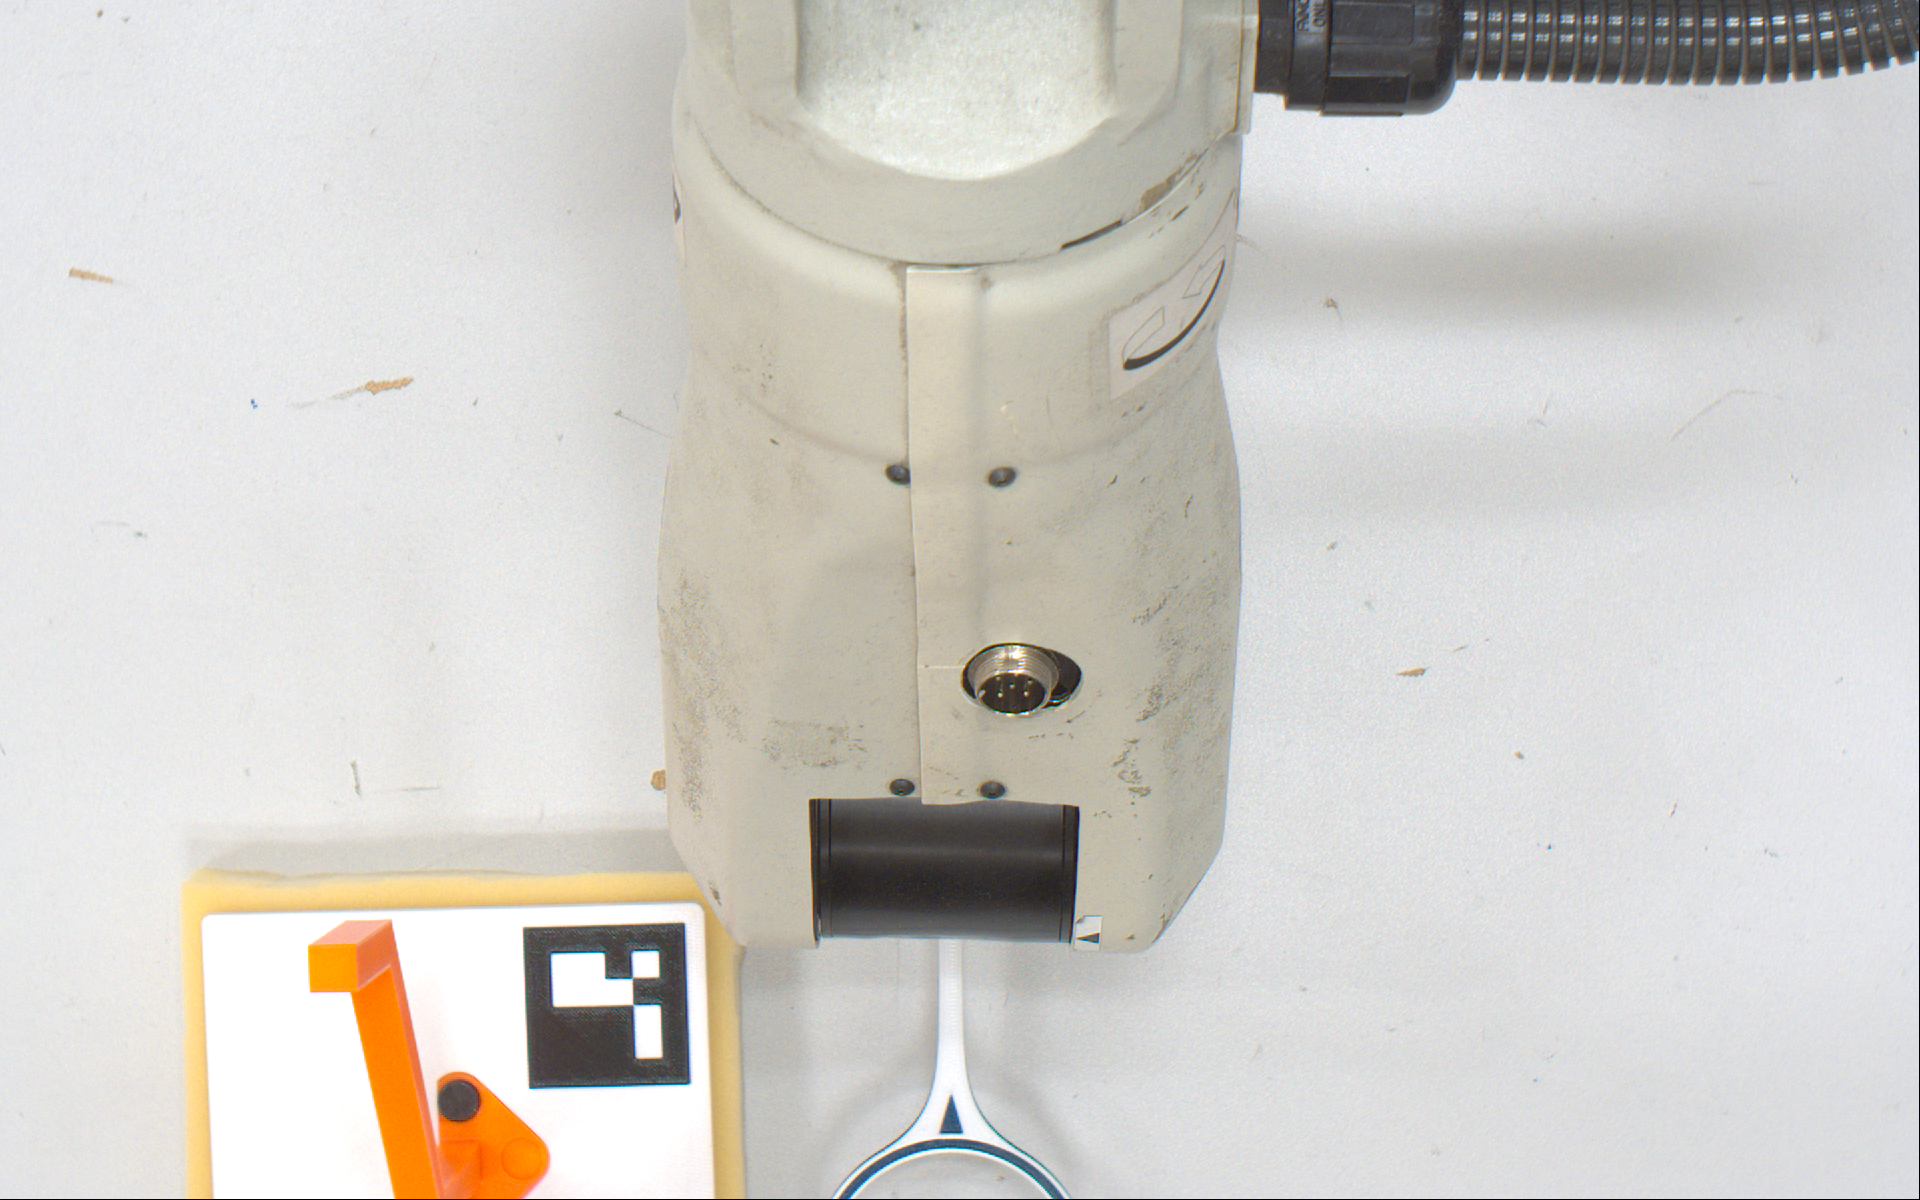
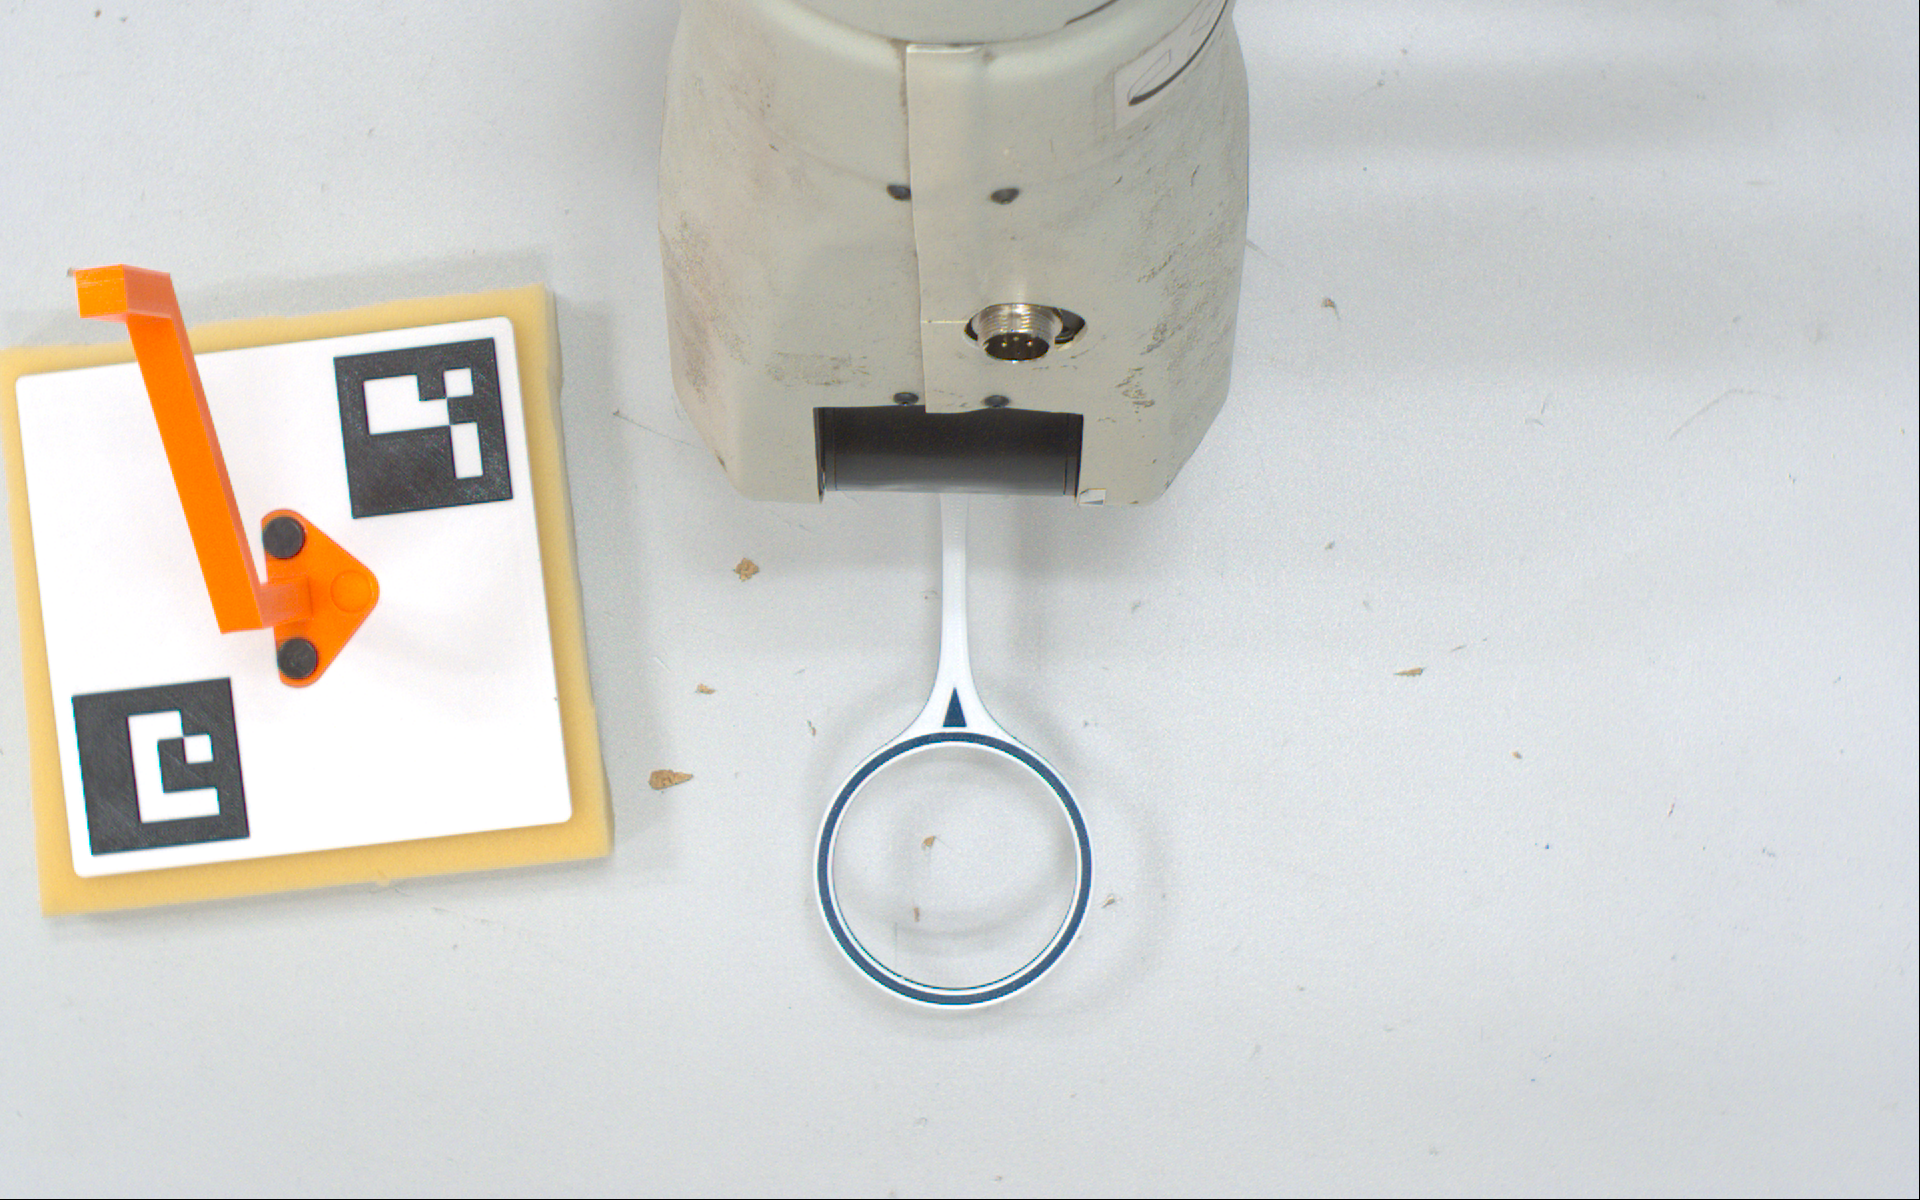
add_autoscript

diff --git a/move_test.py b/move_test.py
@@ -1,23 +1,59 @@
 import numpy as np
 from ctu_crs import CRS93
+from select_shortest_path import find_shortest_path
 
 robot = CRS93()
 robot.initialize(home = False)
 
+joint_weights = np.array([1.0, 1.0, 1.0, 10.0, 1.0, 10.0])
 
-#q0 = np.array([0, -0.5, -1.05, 0, -0.735, 0])
-#robot.move_to_q(q0)
-print(robot.get_q())
+
+
+# q0 = np.array([ 1.27558277e-04, -1.06018865e+00, -1.91550815e+00,  1.29470034e-04,
+#        -1.59282805e-01, -5.57399683e-05])
+# robot.move_to_q(q0)
+
 # print(robot.fk(robot.get_q()))
+
+
+# print(robot.get_q())
+
+
+# qs = robot.ik(pose)
+# print(qs)
+# #print(qs[0])
+# robot.move_to_q(qs[4])
+# robot.move_to_q([ 1.27558277e-04, -1.06018865e+00, -1.91550815e+00,  1.29470034e-04,
+#        -1.59282805e-01, -5.57399683e-05])
+
+
+robot_q = robot.get_q()
+# print(robot_q)
 
 pose = robot.fk(robot.get_q())
 print(pose)
-pose[2][3] = 8.23489053e-01
+pose[1][3] += 0.05
+print(pose)
+robot_qs = robot.ik(pose)
+print(robot_qs)
+sorted_distances = find_shortest_path(robot_q, robot_qs, joint_weights)
 
-qs = robot.ik(pose)
-print(qs)
-#print(qs[0])
-robot.move_to_q(qs[0])
+# for idx, dist, normalized_diff in sorted_distances:
+#     print(f"Index: {idx}, Vzdálenost: {dist:.6f} rad, Δq[3]: {normalized_diff[3]:+.6f} rad, Δq[5]: {normalized_diff[5]:+.6f} rad")
+
+idx,_,_ = sorted_distances[0]
+print(idx)
+print(robot_qs[idx])
+
+robot.move_to_q(robot_qs[idx])
+
+robot_q = robot.get_q()
+print("Robot_pos_q: "robot_q)
+
+pose = robot.fk(robot.get_q())
+print("tramsformacni matic:", pose)
+
+
 
 
 

diff --git a/dataset_creator.py b/dataset_creator.py
@@ -1,0 +1,37 @@
+import numpy as np
+from PIL import Image
+import os
+
+# --- 1⃣ Funkce pro automatické pojmenování souboru ---
+def next_filename(prefix="data", ext=".npz"):
+    i = 1
+    while True:
+        filename = f"{prefix}_{i}{ext}"
+        if not os.path.exists(filename):
+            return filename
+        i += 1
+
+# --- 2⃣ Vytvoření matic ---
+A = np.array([[1, 2, 3],
+              [4, 5, 6]])
+B = np.array([[7, 8],
+              [9, 10]])
+
+# --- 3⃣ Načtení nebo vytvoření obrázku ---
+# Pokud máš vlastní obrázek, odkomentuj tento řádek:
+# img = np.array(Image.open("obrazek.jpg"))
+
+# Jinak se vytvoří náhodný obrázek:
+img = np.random.randint(0, 255, (100, 100, 3), dtype=np.uint8)
+
+# --- 4⃣ Získání unikátního jména souboru ---
+filename = next_filename(prefix="data", ext=".npz")
+
+# --- 5⃣ Uložení dat ---
+np.savez(filename, obrazek=img, matice_A=A, matice_B=B)
+print(f"✅ Obrázek a matice byly uloženy do souboru: {filename}")
+
+# --- 6⃣ Uložení obrázku i jako PNG se stejným číslem ---
+png_name = filename.replace(".npz", ".png")
+Image.fromarray(img).save(png_name)
+print(f"✅ Obrázek uložen jako: {png_name}")
